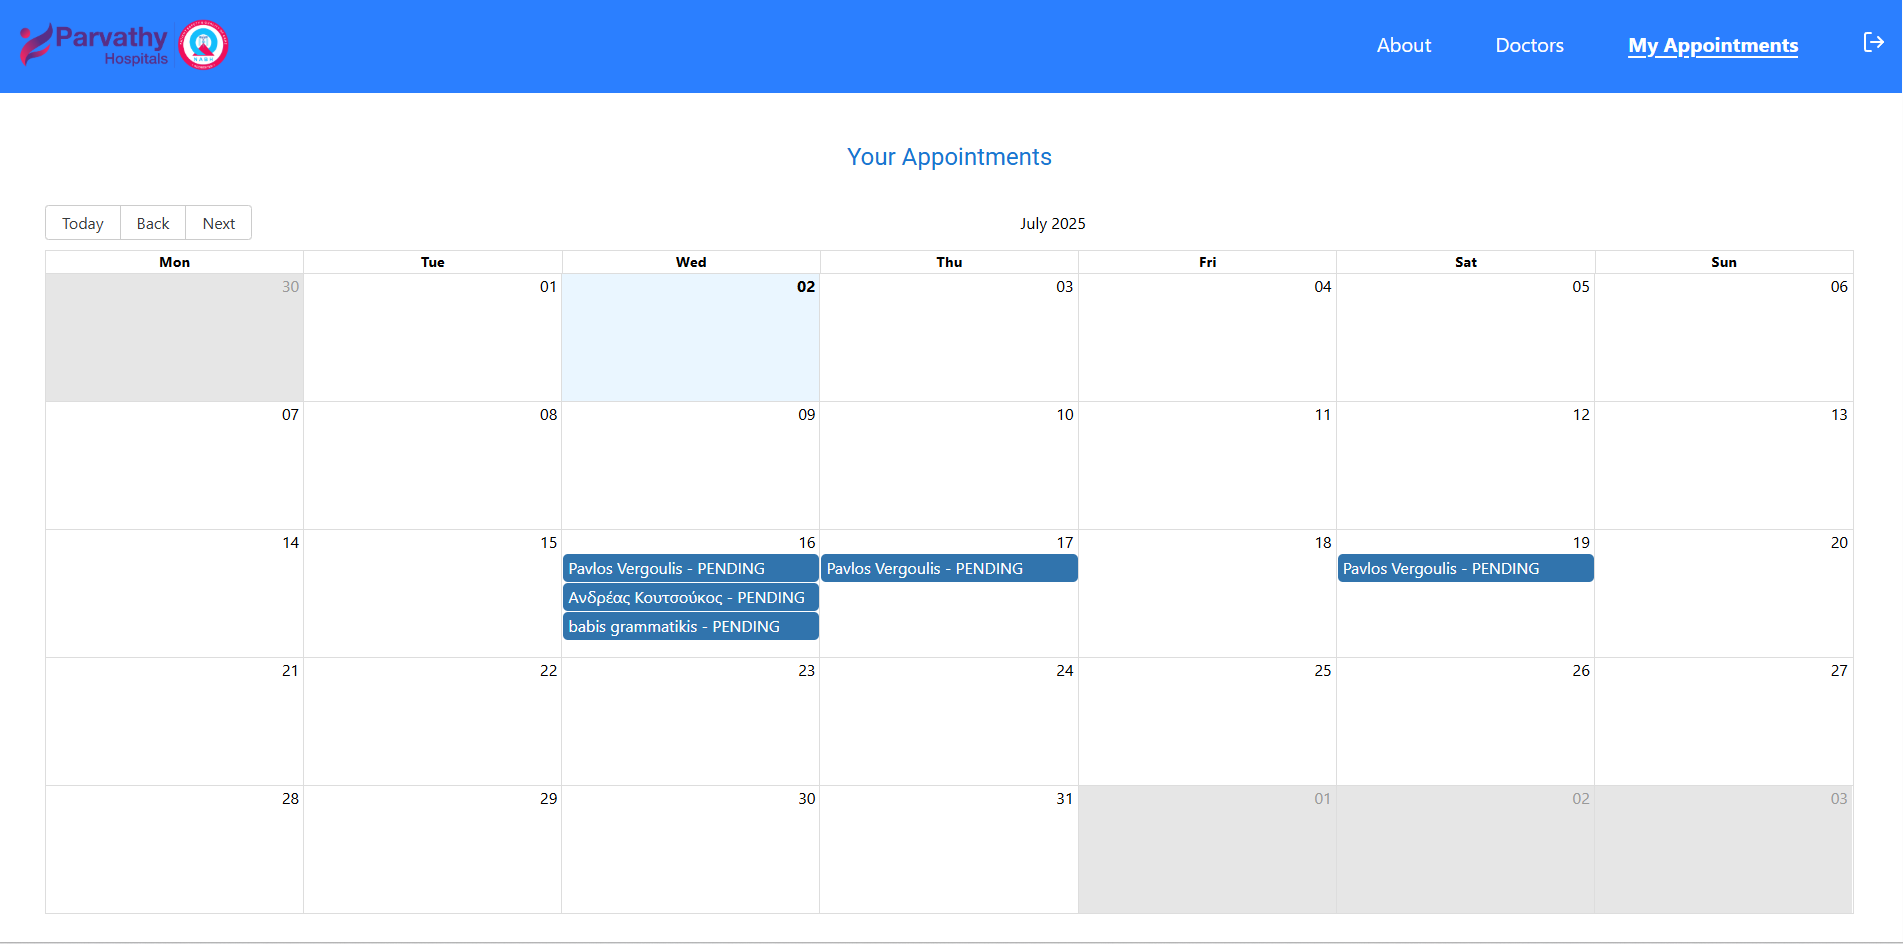
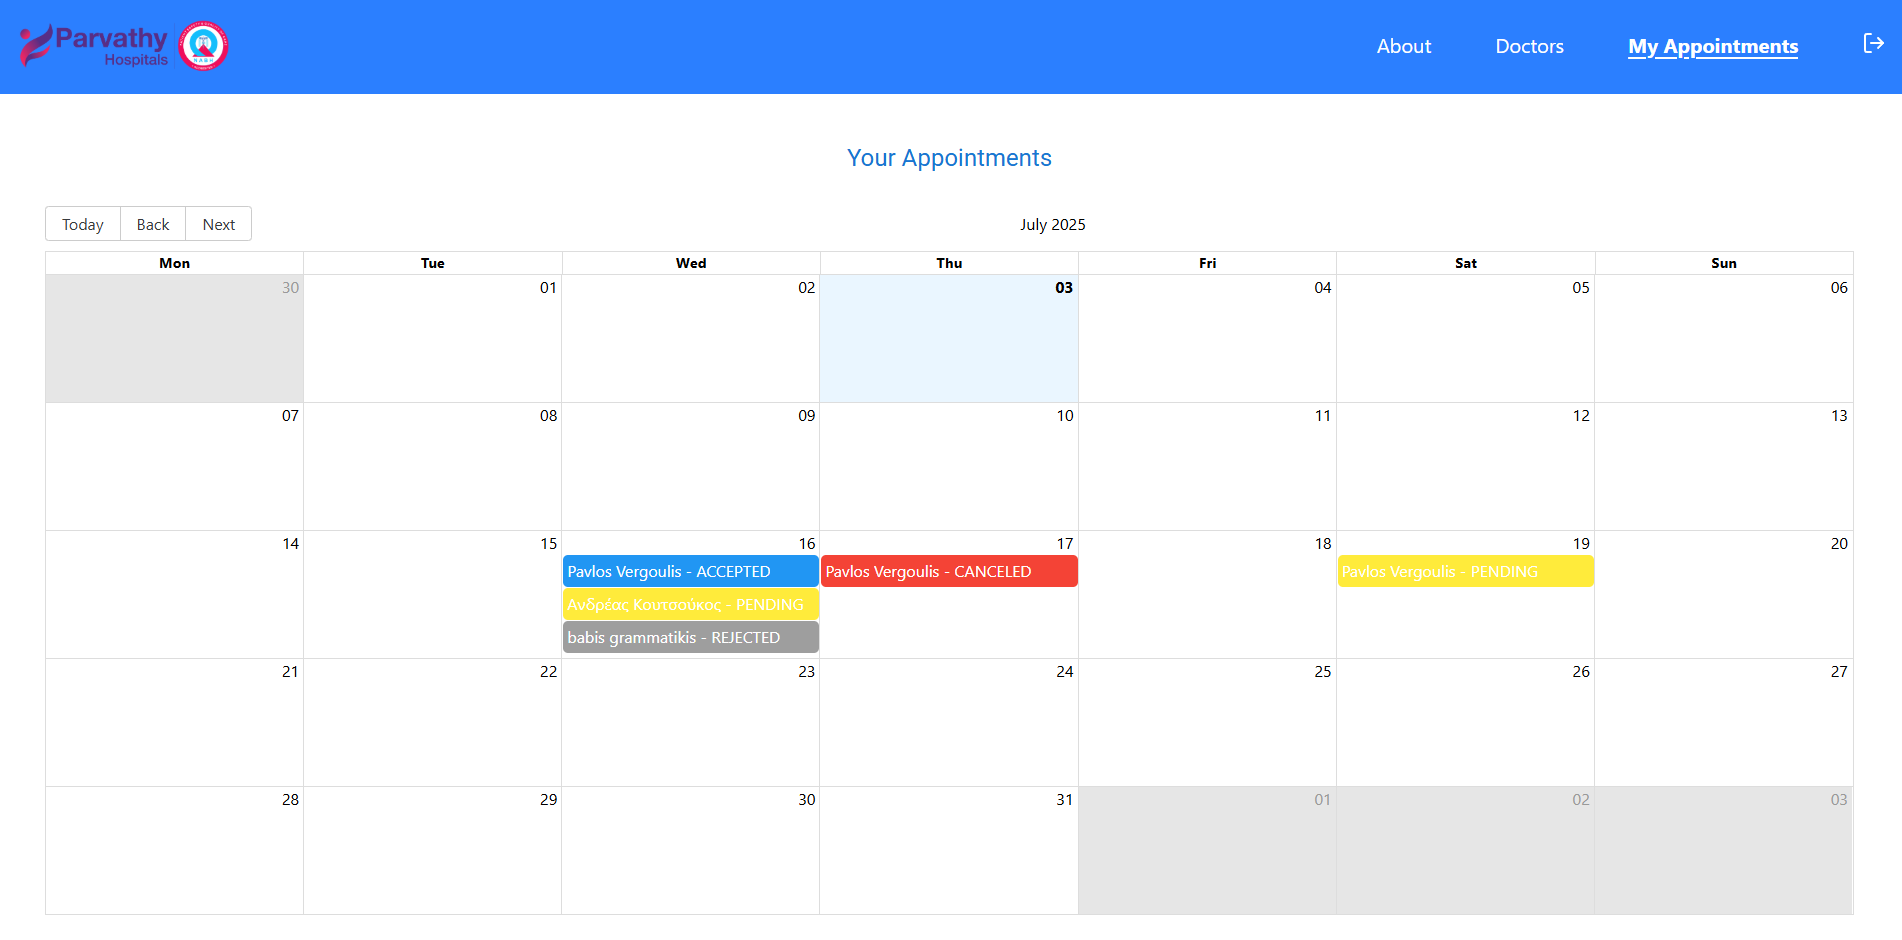
Feat: useAppointmentColor

diff --git a/src/pages/DoctorAppointmentsPage.tsx b/src/pages/DoctorAppointmentsPage.tsx
@@ -31,6 +31,7 @@ import { type AppointmentDoctorType } from "../types/appointmentTypes";
 import "react-big-calendar/lib/css/react-big-calendar.css";
 import { format, parse, startOfWeek, getDay } from "date-fns";
 import { el } from "date-fns/locale/el";
+import { useAppointmentColor } from "../hooks/useApponetmentColor";
 
 const locales = {
   el: el,
@@ -80,7 +81,7 @@ const DoctorAppointmentsPage = () => {
           }))
         );
       } catch (err: any) {
-        setError(err.message || "Αποτυχία φόρτωσης ραντεβού");
+        setError(err.message || "Failed loading appointments");
       } finally {
         setLoading(false);
       }
@@ -129,6 +130,9 @@ const DoctorAppointmentsPage = () => {
       console.error("Failed to update status:", err);
     }
   };
+
+  const { eventStyleGetter } = useAppointmentColor();
+
   console.log("raw date from db:", selectedAppointment?.date);
   return (
     <Box sx={{ padding: "3rem" }}>
@@ -161,6 +165,7 @@ const DoctorAppointmentsPage = () => {
           onNavigate={handleNavigate}
           onSelectEvent={handleSelectEvent}
           popup
+          eventPropGetter={eventStyleGetter}
         />
       )}
 
@@ -188,7 +193,7 @@ const DoctorAppointmentsPage = () => {
             <Select
               labelId="status-label"
               value={selectedAppointment?.status ?? ""}
-              label="Κατάσταση"
+              label="Status"
               onChange={(e) => {
                 if (selectedAppointment) {
                   setSelectedAppointment({

diff --git a/src/hooks/useApponetmentColor.ts b/src/hooks/useApponetmentColor.ts
@@ -1,0 +1,31 @@
+import { type AppointmentDoctorType } from "../types/appointmentTypes";
+import { type Event as CalendarEvent } from "react-big-calendar";
+
+const statusColors: Record<string, string> = {
+  PENDING: "#ffeb3b",
+  CONFIRMED: "#4caf50",
+  CANCELED: "#f44336",
+  REJECTED: "#9e9e9e",
+  ACCEPTED: "#2196f3",
+  DONE: "#8e24aa",
+};
+
+export const useAppointmentColor = () => {
+  const eventStyleGetter = (event: CalendarEvent) => {
+    const appt: AppointmentDoctorType = event.resource;
+
+    const backgroundColor = statusColors[appt.status] || "#90a4ae";
+
+    return {
+      style: {
+        backgroundColor,
+        color: "#fff",
+        borderRadius: "5px",
+        border: "none",
+        padding: "4px",
+      },
+    };
+  };
+
+  return { eventStyleGetter };
+};
